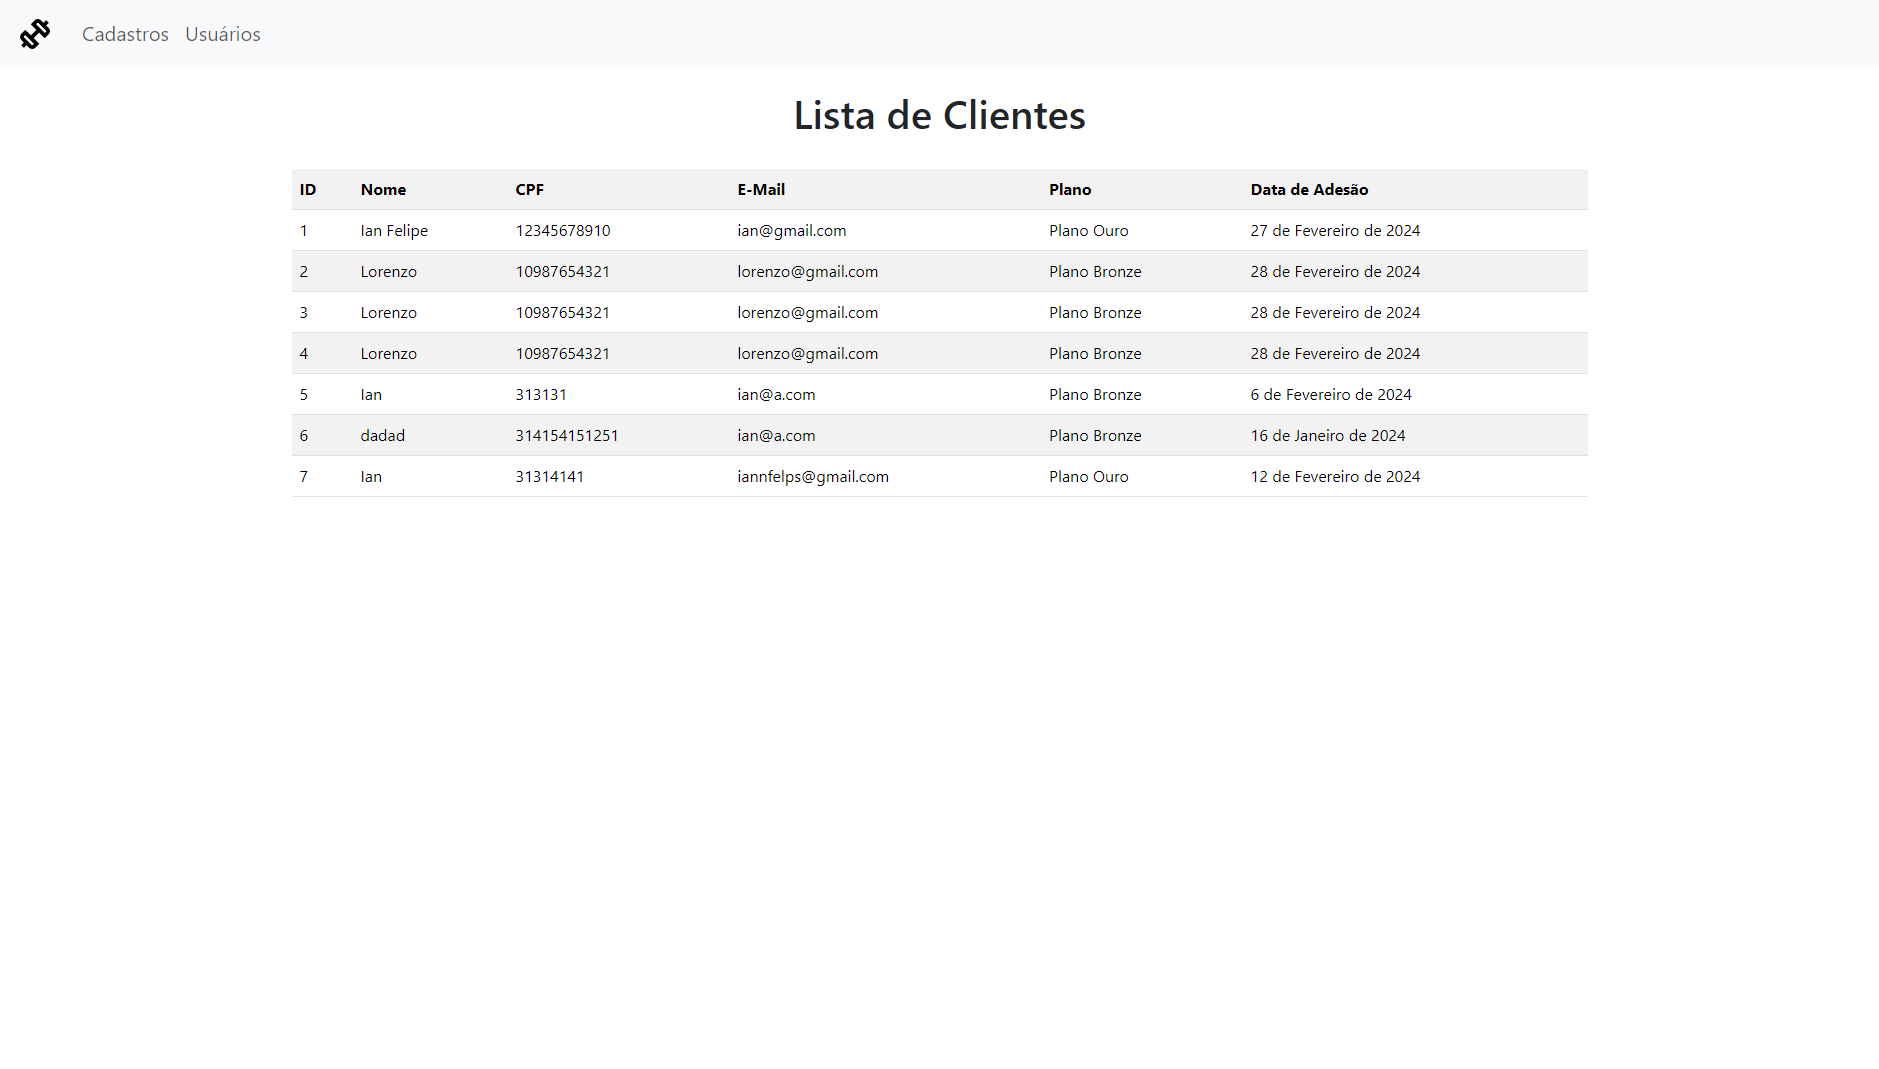
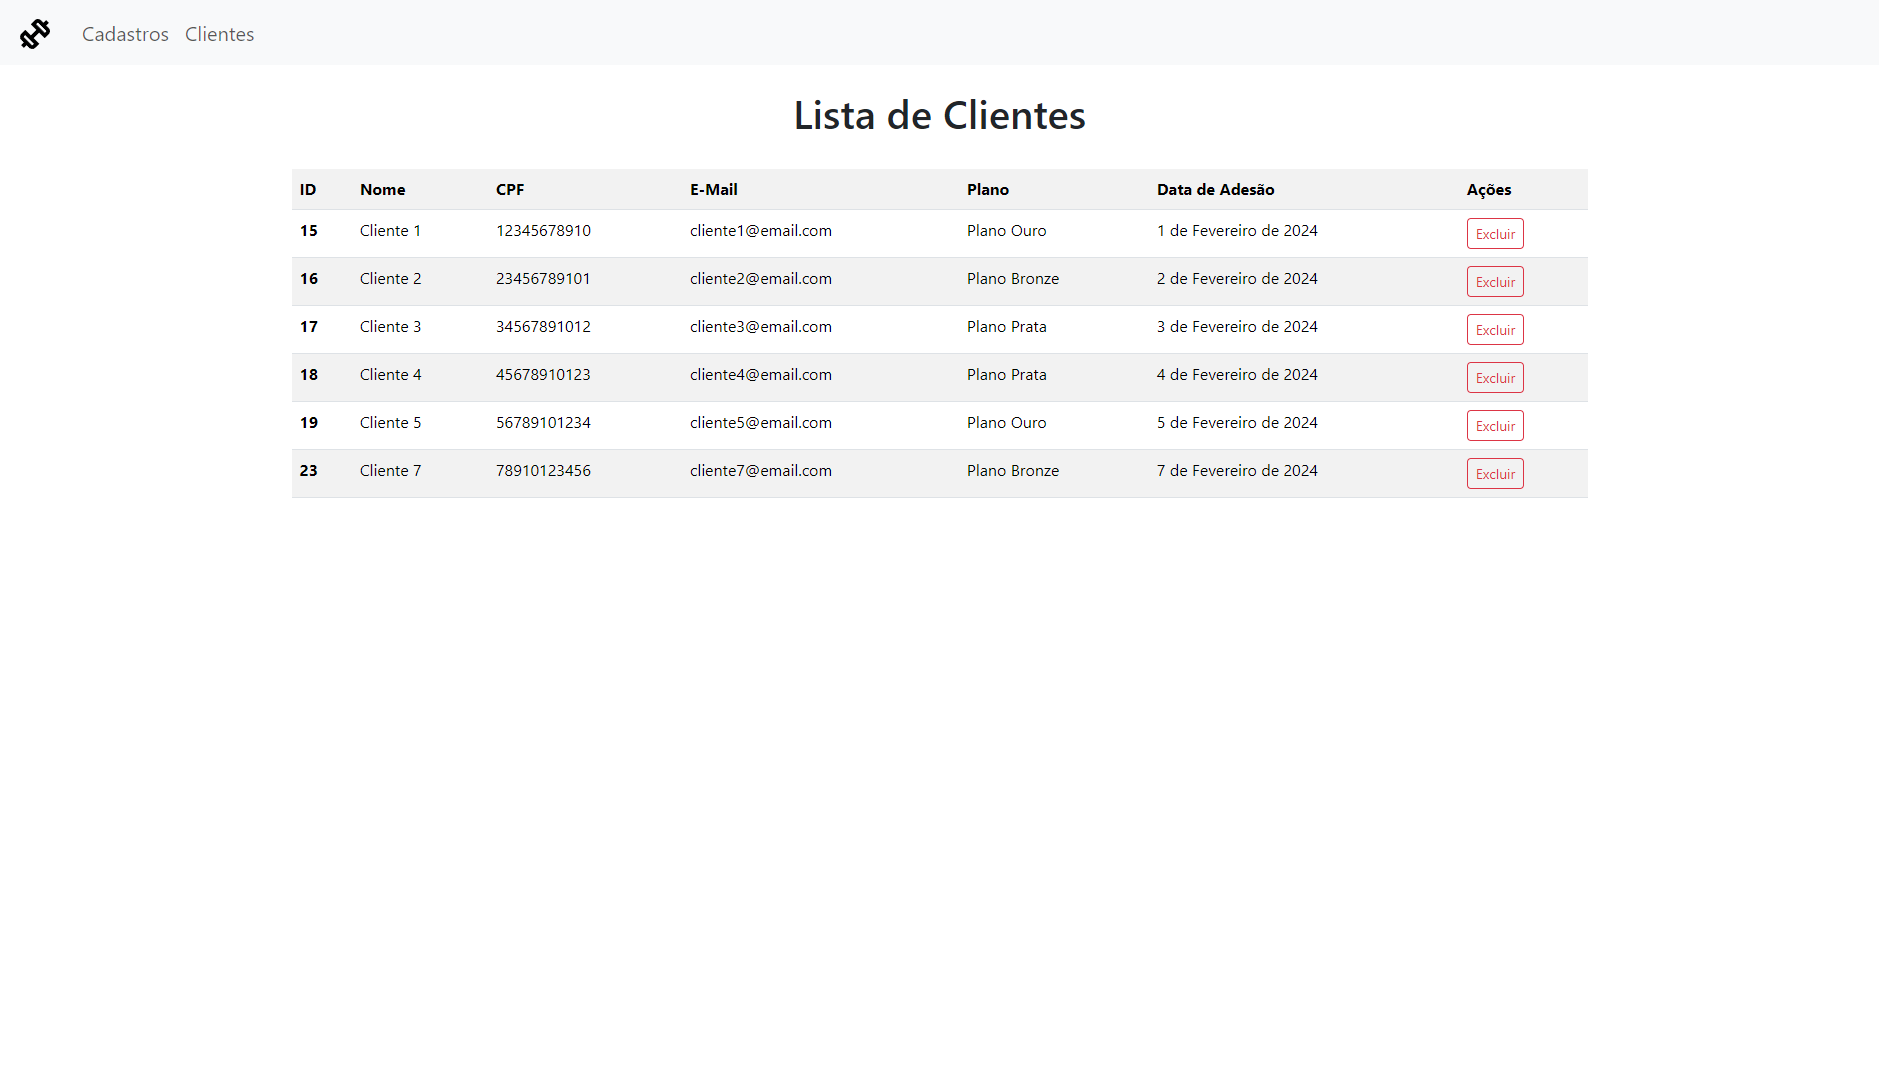
v2

diff --git a/proj_sistema_academia/app_interface/templates/paginas/base.html b/proj_sistema_academia/app_interface/templates/paginas/base.html
@@ -12,7 +12,7 @@
 <body>
     <nav class="navbar navbar-expand-lg bg-body-tertiary">
         <div class="container-fluid">
-            <a class="navbar-brand p-2" href="#">
+            <a class="navbar-brand p-2" href="{% url 'cad' %}">
                 <img src="https://cdn-icons.flaticon.com/svg/3914/3914746.svg?token=exp=1709040771~hmac=e3d5b036f93b5119904c65c39ce331a1"
                     alt="Logo" width="30" height="30">
             </a>
@@ -26,7 +26,7 @@
                         <a class="nav-link fs-5" href="{% url 'cad' %}">Cadastros</a>
                     </li>
                     <li class="nav-item">
-                        <a class="nav-link fs-5" href="{% url 'list' %}">Usuários</a>
+                        <a class="nav-link fs-5" href="{% url 'list' %}">Clientes</a>
                     </li>
                 </ul>
             </div>

diff --git a/proj_sistema_academia/app_interface/templates/paginas/list.html b/proj_sistema_academia/app_interface/templates/paginas/list.html
@@ -10,15 +10,19 @@
             <th>E-Mail</th>
             <th>Plano</th>
             <th>Data de Adesão</th>
+            <th>Ações</th>
         </tr>
         {% for cliente in list %}
         <tr>
-            <td>{{cliente.id_cliente}}</td>
+            <th>{{cliente.id_cliente}}</th>
             <td>{{cliente.nome}}</td>
             <td>{{cliente.cpf}}</td>
             <td>{{cliente.email}}</td>
             <td>{{cliente.plano}}</td>
             <td>{{cliente.adesao}}</td>
+            <td>
+                <a href="/delete/{{ cliente.id_cliente }}" class="btn btn-outline-danger btn-sm">Excluir</a>
+            </td>
         </tr>
         {% endfor %}
     </table>

diff --git a/proj_sistema_academia/app_interface/templates/paginas/cad.html b/proj_sistema_academia/app_interface/templates/paginas/cad.html
@@ -22,6 +22,7 @@
         <div class="col-md-4">
             <label for="inputState" class="form-label">Plano:</label>
             <select name="plano" id="inputState" class="form-select" required>
+                <option selected> </option>
                 <option>Plano Bronze</option>
                 <option>Plano Prata</option>
                 <option>Plano Ouro</option>

diff --git a/proj_sistema_academia/app_interface/views.py b/proj_sistema_academia/app_interface/views.py
@@ -1,4 +1,4 @@
-from django.shortcuts import render
+from django.shortcuts import render, redirect
 from .models import Cliente
 
 # Create your views here.
@@ -24,3 +24,8 @@ def list(request):
 
     clientes = Cliente.objects.all()
     return render(request, 'paginas/list.html', {'list': clientes})
+
+def delete(request, id_cliente):
+    cliente = Cliente.objects.get(id_cliente=id_cliente)
+    cliente.delete()
+    return redirect('/list')

diff --git a/proj_sistema_academia/proj_sistema_academia/urls.py b/proj_sistema_academia/proj_sistema_academia/urls.py
@@ -21,4 +21,6 @@ urlpatterns = [
     path('', views.cad, name='cad'),
 
     path('list/', views.list, name='list'),
+
+    path('delete/<int:id_cliente>', views.delete, name='delete'),
 ]
